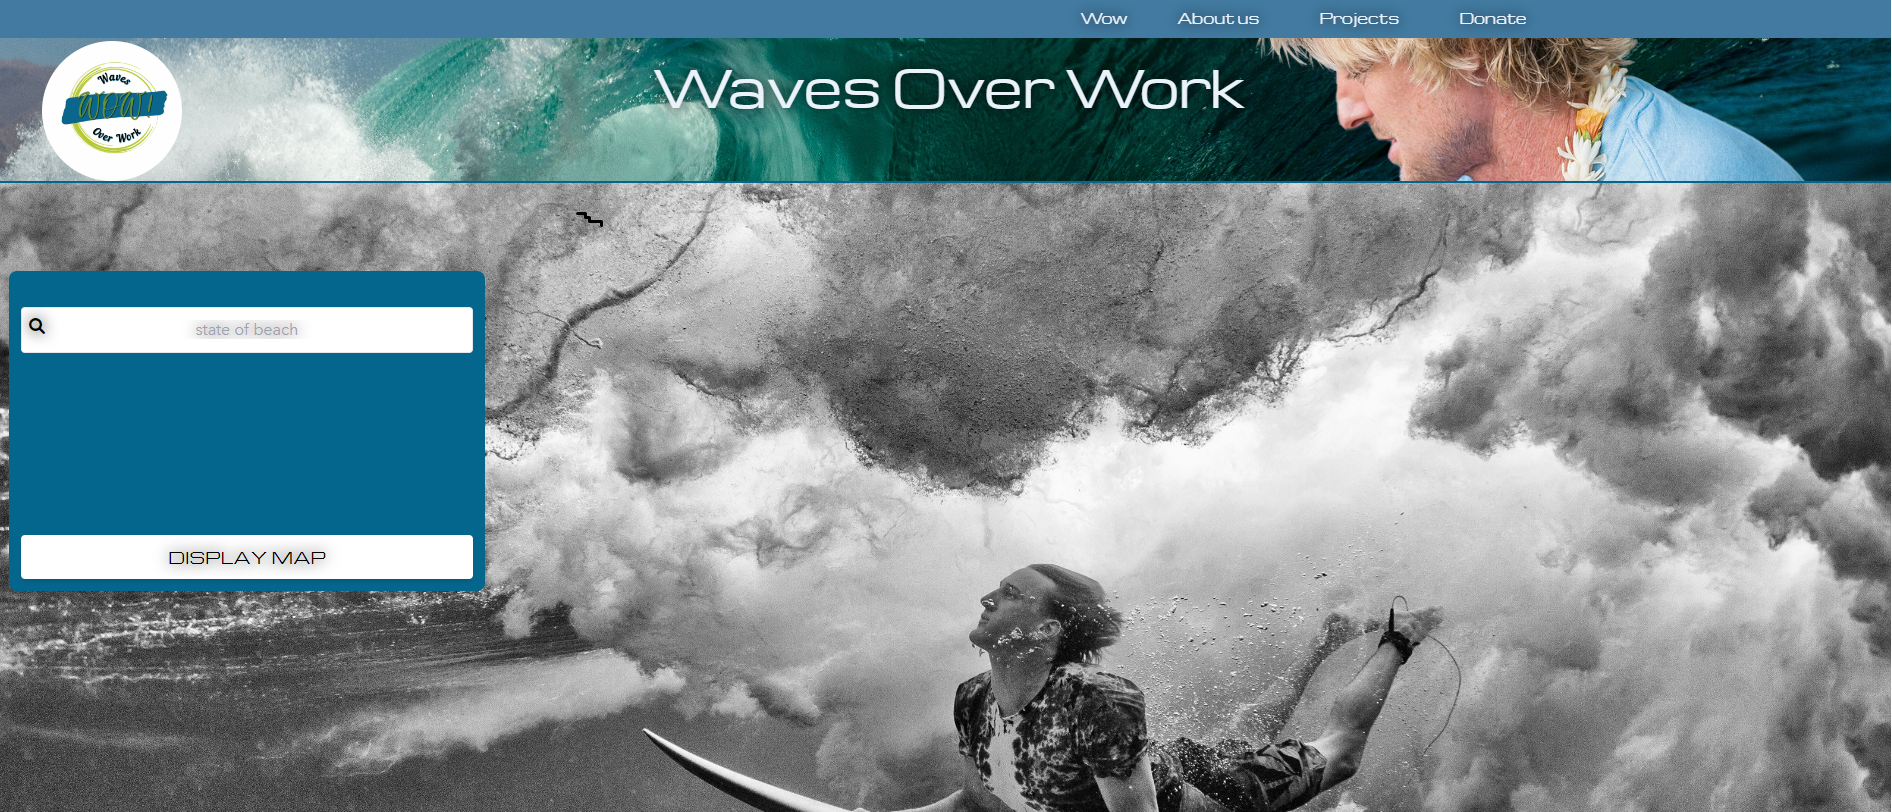
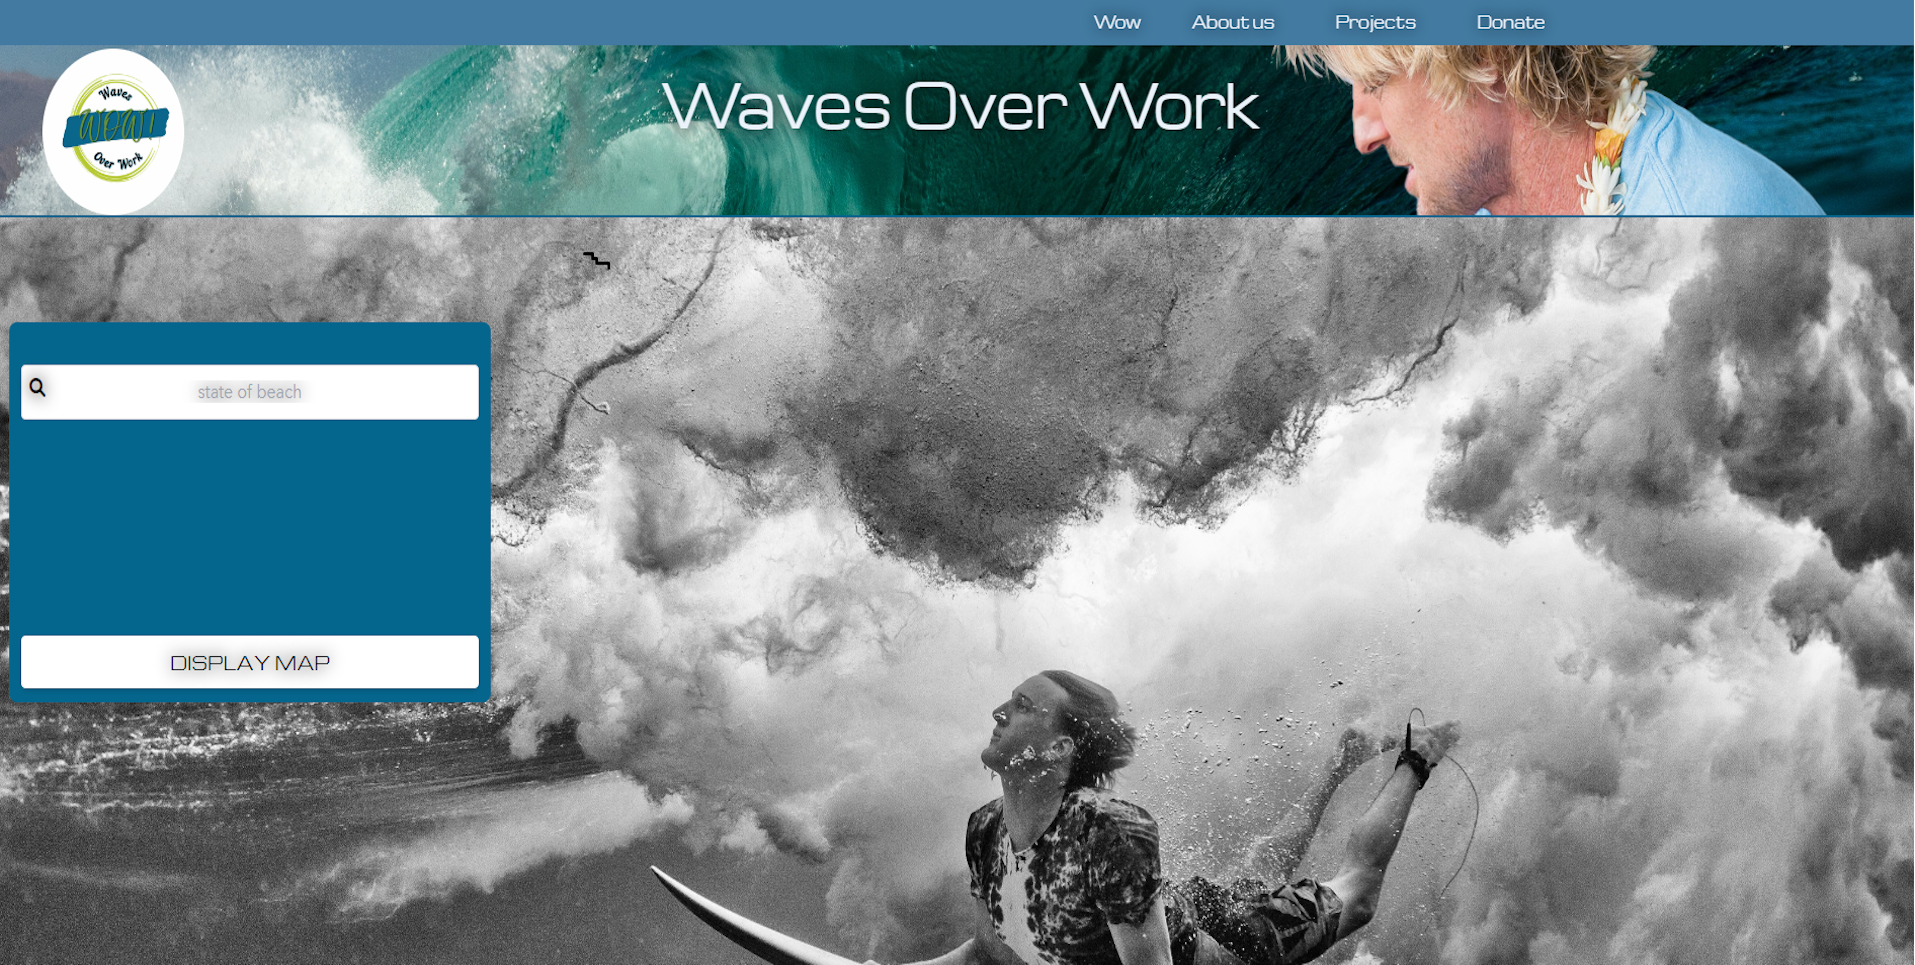
Readjusted image size to match in portfolio

diff --git a/src/components/Portfolio/index.jsx b/src/components/Portfolio/index.jsx
@@ -4,15 +4,16 @@ const Portfolio = () => {
     return (
         <div class="container row container-fluid" style={{margin: 'auto'}}>
         <div class="card" style={{width: '18rem'}}>
-        <div class="card-img-top" src=".../100px180/" alt="Card image cap"></div>
+        <img class="card-img-top" src="/images/waves.png" alt="Waves over Work"></img>
         <div class="card-body">
-          <h5 class="card-title">Card title</h5>
-          <p class="card-text">Some quick example text to build on the card title and make up the bulk of the card's content.</p>
-          <a href="https://github.com/Tab-Y/anime-tracker" class="btn btn-secondary">Github</a>
+          <h5 class="card-title text-center">Waves over Work</h5>
+          <p class="card-text text-center">Some quick example text to build on the card title and make up the bulk of the card's content.</p>
+          <a href="https://github.com/MariaYConstanza/beach-day" class="btn btn-secondary">Github</a>
+          <a href="https://mariayconstanza.github.io/beach-day/" class="btn btn-secondary">Link</a>
         </div>
       </div>
       <div class="card" style={{width: '18rem'}}>
-        <img class="card-img-top" src="/images/animetracker.png" alt="Card image cap"></img>
+        <img class="card-img-top" src="/images/animetracker.png" alt="Anime Tracker"></img>
         <div class="card-body">
           <h5 class="card-title text-center">Anime Tracker</h5>
           <p class="card-text text-center">This was a collaborative, fullstack project. </p>
